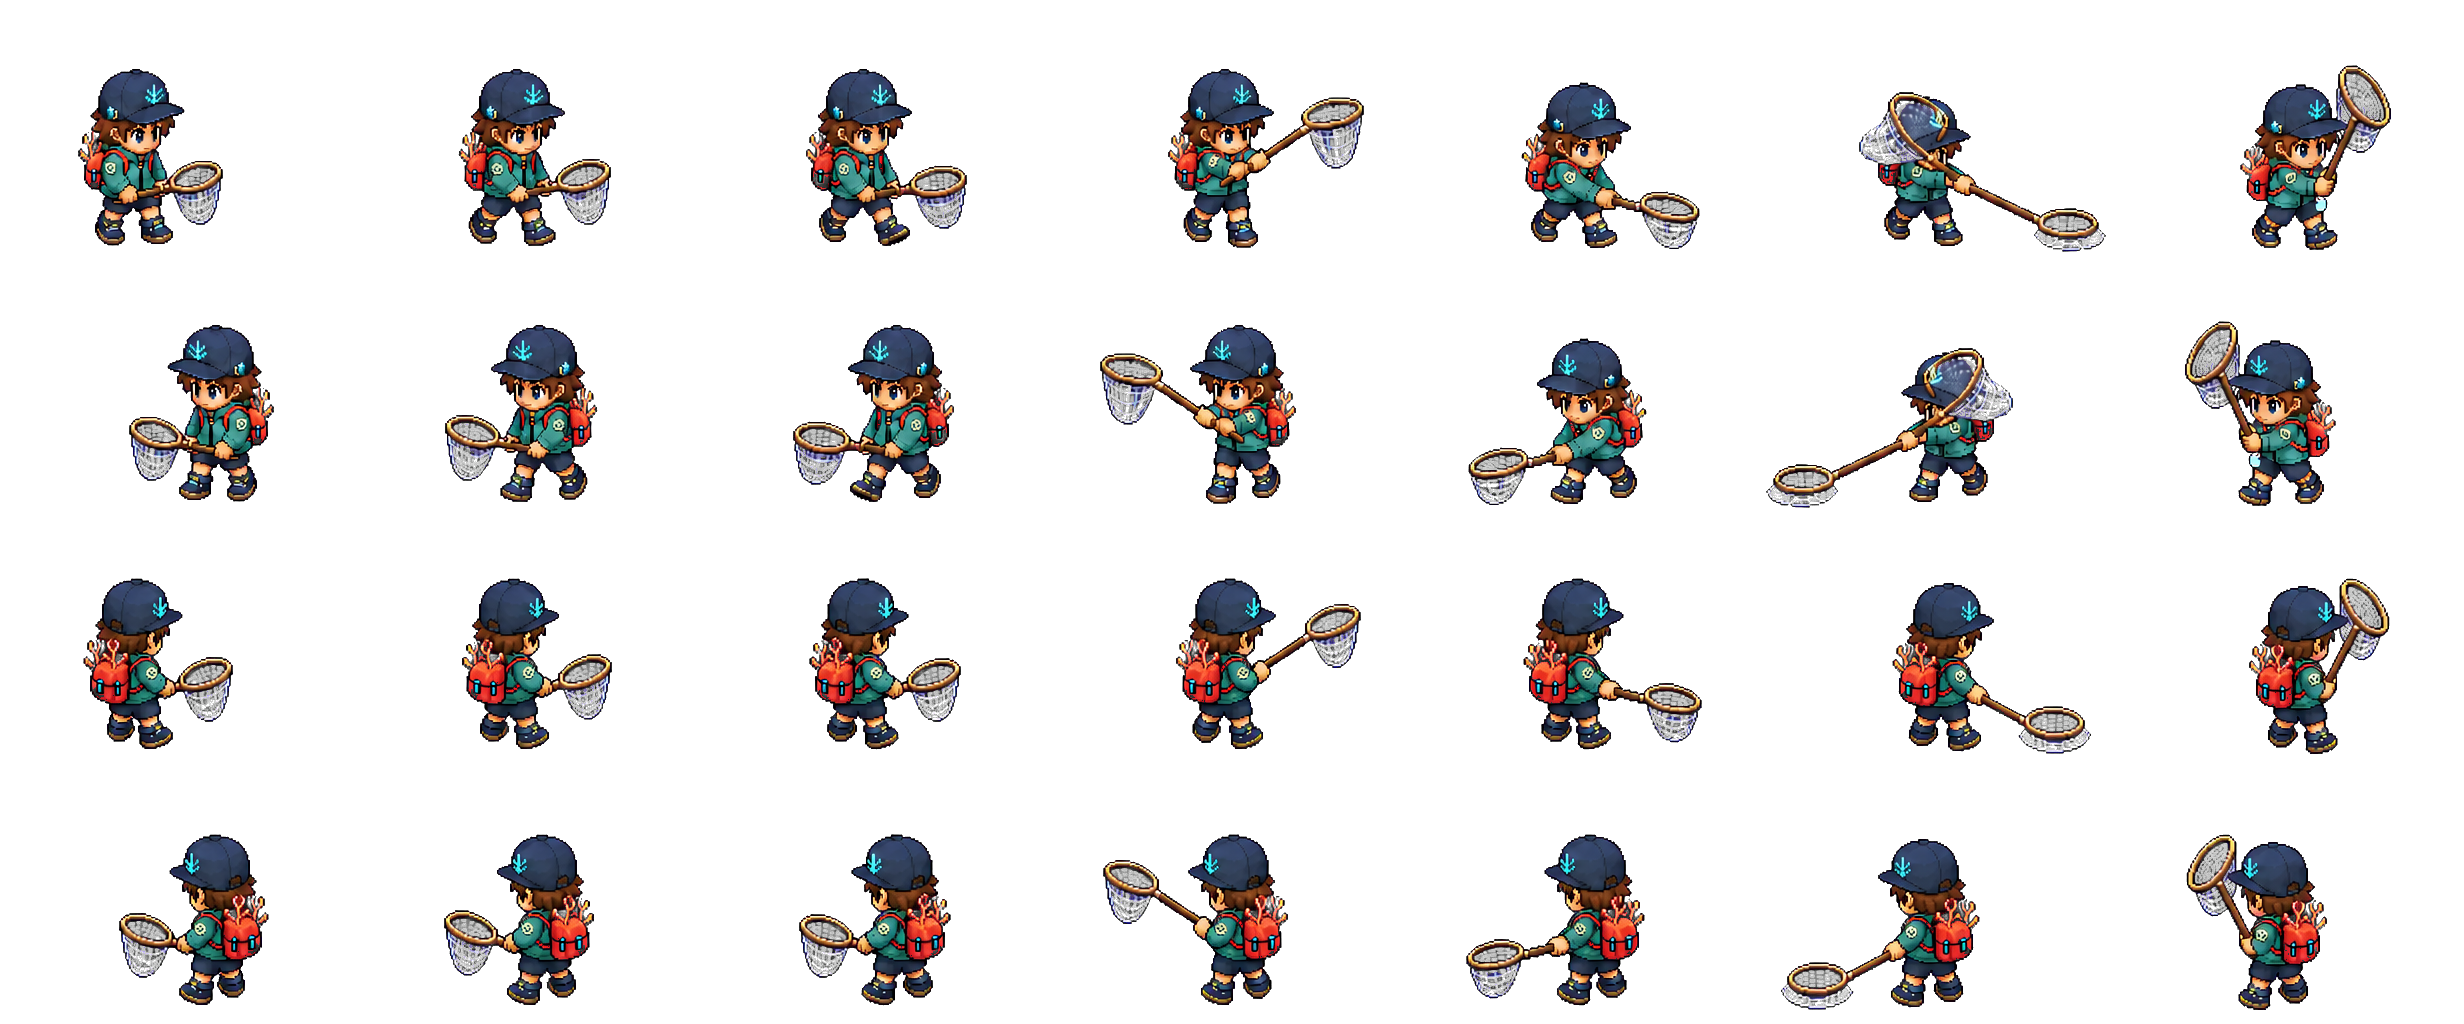
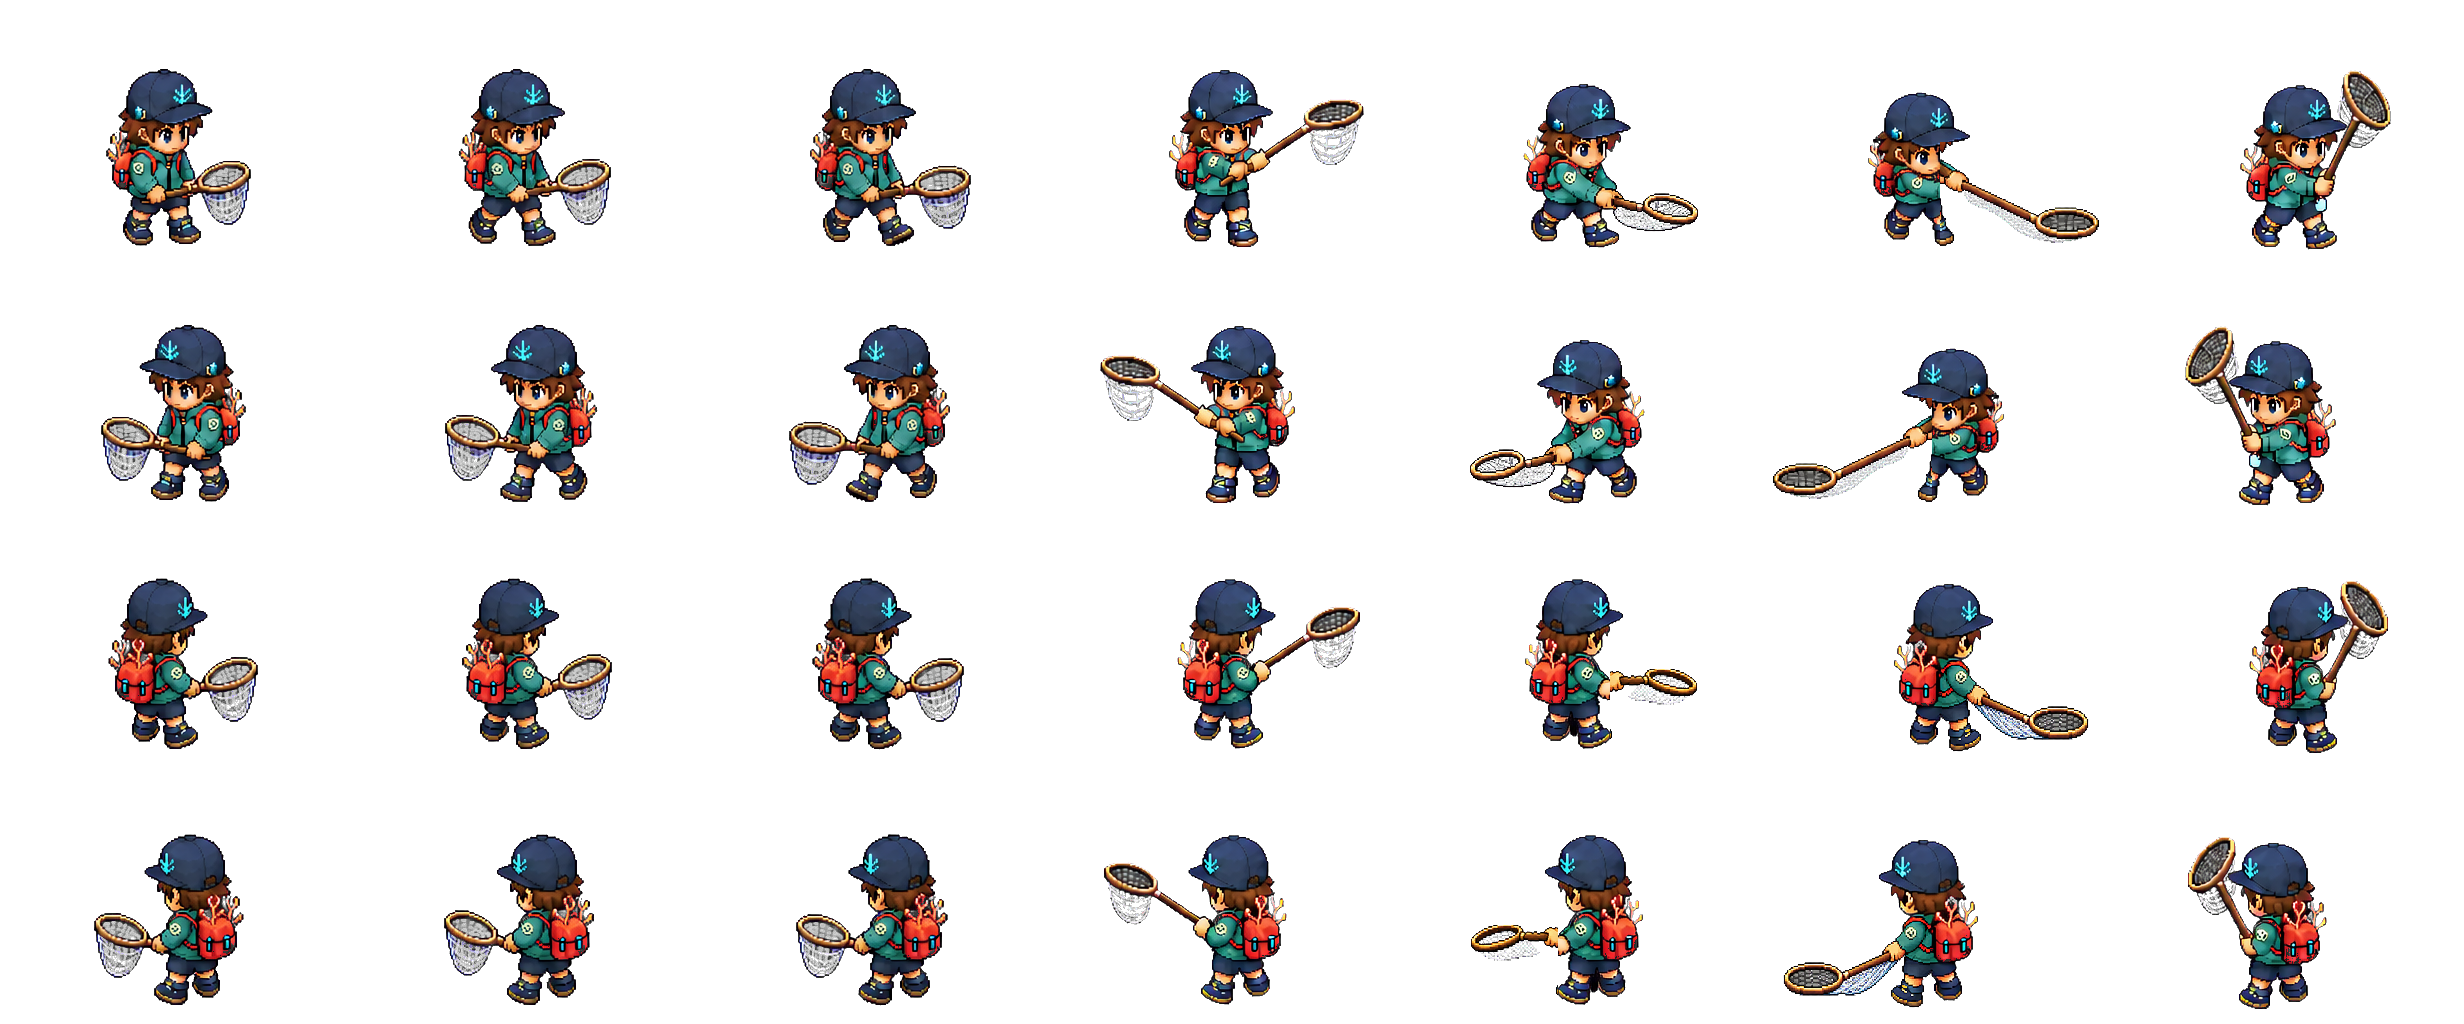
Polish hand-net character animation

diff --git a/src/app/adventure/AdventureHandNetModal.jsx b/src/app/adventure/AdventureHandNetModal.jsx
@@ -42,8 +42,6 @@ const HAND_NET_DIRECTION_VECTORS = Object.freeze({
   down: [0, 1],
 });
 
-const WALK_FRAME_SEQUENCE = Object.freeze([0, 1, 2, 1]);
-
 function seedFromIdentity(identity) {
   let hash = 0x811c9dc5;
   for (let index = 0; index < identity.length; index += 1) {
@@ -240,7 +238,7 @@ export default function AdventureHandNetModal({
   const playerSpriteFrame = state.net.scoopRemainingMs > 0
     ? state.presentation.scoopFrameIndex
     : playerMoving
-      ? WALK_FRAME_SEQUENCE[Math.floor(state.simulationTimeMs / 115) % WALK_FRAME_SEQUENCE.length]
+      ? state.presentation.walkFrameIndex
       : 0;
   const playerSpritePosition = {
     x: `${(playerSpriteFrame / 6) * 100}%`,

diff --git a/src/app/adventure/adventure.module.css b/src/app/adventure/adventure.module.css
@@ -8823,13 +8823,13 @@
 }
 
 .handNetPlayerFacingFront {
-  --hand-net-player-anchor: 65%;
-  transform: translate(-50%, -65%);
+  --hand-net-player-anchor: 96%;
+  transform: translate(-50%, -96%);
 }
 
 .handNetPlayerFacingRear {
-  --hand-net-player-anchor: 91%;
-  transform: translate(-50%, -91%);
+  --hand-net-player-anchor: 93%;
+  transform: translate(-50%, -93%);
 }
 
 .handNetPlayerRipple,
